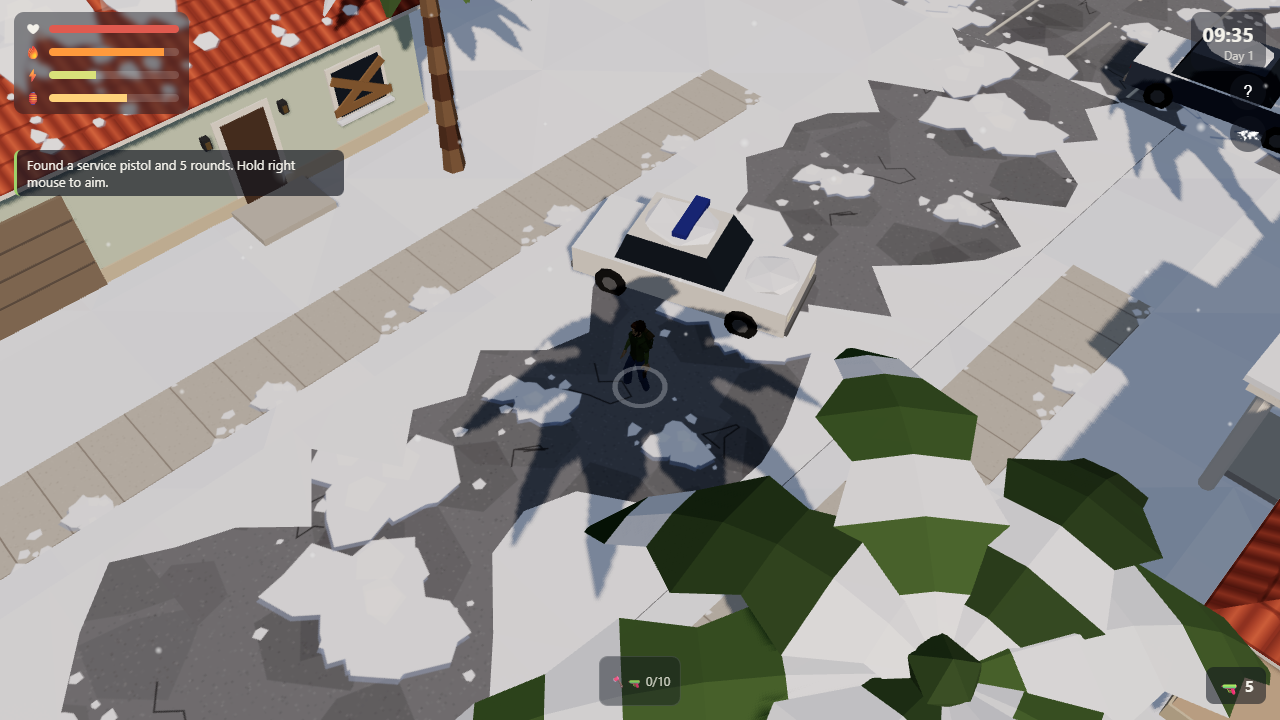
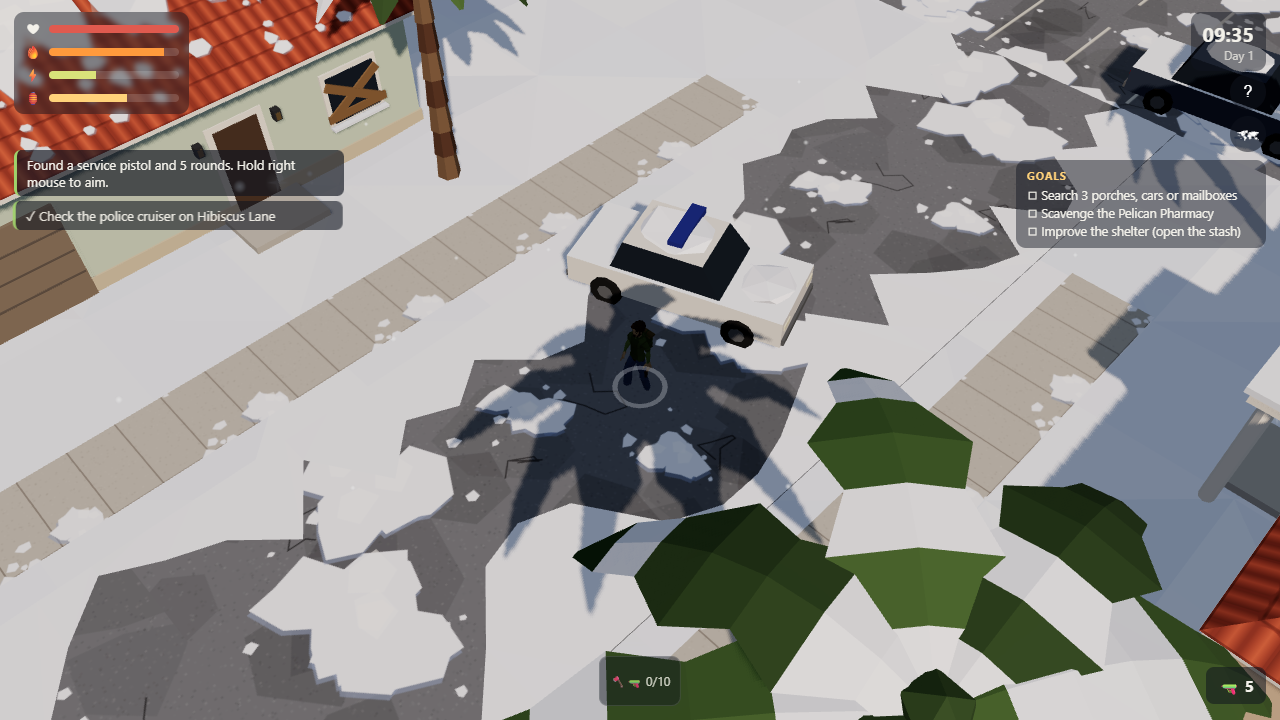
Playtest report, current-state notes, agent entry files

diff --git a/docs/PLAYTEST.md b/docs/PLAYTEST.md
@@ -1,0 +1,68 @@
+# Playtest report
+
+- **Last full run:** 2026-09-30, against a fresh clone of `github.com/Marcsarno/survival`, built with `npm install && npm run build` and served with `vite preview`.
+- **Harness:** `tools/playtest.mjs`, Playwright Chromium with the GPU (ANGLE/D3D11), 1280×720, Windows 11.
+- **Result:** 28 passed, 0 failed. The raw JSON is written to `playtest-output/results.json`; screenshots go to `docs/screenshots/`.
+
+All movement, gathering, searching, combat and UI actions went through real keyboard, mouse and pointer input. Two test shortcuts were used, and both are labelled in the results:
+1. Teleports that only place the player next to a wall for the collision test.
+2. `player.hurt(999)` to trigger the death-and-recovery path.
+
+Everything else was reached by walking.
+
+## Route and checks
+
+| # | Check | Observed |
+|---|---|---|
+| 1 | Fresh start (load + Start button) | Loaded in 2.8 s (local). Started in Pavilion Park, fire lit, no console errors. |
+| 2 | Footprints on snow | 9 prints in about 3 s of walking; visible in `02-footprints.png` |
+| 3 | Collision | Walking into the park's stucco wall stopped at x = −44.59 (wall at −44). Walking into a house front stopped at z = −12.06 (wall at −12.3 minus the player's radius). |
+| 4 | Park → woods trail → woodshed | Reached on foot through the west gate |
+| 5 | Gather wood | 0 → 4 split firewood (hold E) |
+| 6 | Take the axe | Axe flag set |
+| 7 | Woodshed → shelter | Walked back |
+| 8 | Store in the stash | Stash wood went 2 → 6 and the pack emptied (`04-stash-panel.png`) |
+| 9 | Feed the fire | Fuel 44.9 → 66.8 |
+| 10 | Shelter → Coral Palm Dr → Hibiscus Ln → police cruiser | Walked, passing 3 areas |
+| 11 | Search the cruiser | Got the pistol and 5 rounds |
+| 12 | Combat at the pharmacy lot | Aimed with right mouse and fired with a click. The frozen went down; the player kept full health in this run. |
+| 13 | Pharmacy aisles | Got 2 medkits, 2 food, 1 water |
+| 14 | Pharmacy → service road → camp → woods → shelter | A full loop on foot. On the way the walker shot or swung at chasing zombies 26 times, as a player would. |
+| 15 | Shelter → canal walk → beach | Walked |
+| 16 | Driftwood | Got 2 wood (with the axe) |
+| 17 | Beach → Coral Palm Dr → shelter | Walked back without getting trapped |
+| 18 | Areas visited | park, cpd, woods, hibiscus, pharmacy, service, camp, canal, beach (9) |
+| 19 | Day / night / lantern | Luminance around the player: day 203, night with the lantern off 86, night with it on 206 (`10-day.png`, `11-night-lantern.png`) |
+| 20 | Camera | The wheel raised the camera a level; X rotated it 45° |
+| 21 | Death and recovery | Woke at the shelter with 61 hp; the dropped pack appeared on the map |
+| 22 | Recover the pack | Walked back and got the dropped items |
+| 23 | Performance | 60 fps (vsync-capped) at the end of the desktop run |
+| 24 | Console | No errors |
+| 25 | Touch layout | Simulated 390×844 touch viewport: touch controls shown, joystick drag moved the player 3.9 m. This was **not** a physical phone. |
+
+## Visual comparison against the concept anchors
+
+The anchor list is in `DESIGN.md`. Screenshots are in `docs/screenshots/`.
+
+**Matching**
+- Stucco houses with snow-laden barrel-tile roofs, boarded windows and garages, paver driveways, mailboxes and palms, and asphalt showing through packed snow (anchor 05).
+- The faceted pines and woodshed with stacked log ends and a lantern (01).
+- The pink-stucco pharmacy with its canopy, boarded windows and parking lot (03).
+- The playground set: swings, slide tower, arch, rubber tiles, metal fence (06).
+- Bollards, dune fence and lifeguard stand (07).
+- Seawall, docks and patios (08).
+- The tile-roof pavilion with tarps, crates and lantern (11).
+- Warm lantern and fire light against blue snow at night, footprints behind the player, and normal human proportions.
+
+**Remaining differences**
+- The concept views are more densely dressed: potted plants, more hedges, bikes, arched entries.
+- Canal ice floes are simple polygons.
+- The frozen read as pale, weathered people rather than obviously decayed.
+- Roof snow is a repeating texture, not modelled drifts.
+- The default camera sits a little higher than most concept frames. C gives a low cinematic view, and the wheel or +/− adjust the height.
+
+## Performance notes
+
+- **Desktop** (this machine, Chromium with the GPU): 60 fps capped, about 600–800 draw calls and about 500k triangles including the shadow pass. Frame-time spikes of about 110 ms showed up during automated runs; they coincide with Playwright screenshot capture, but the cause isn't confirmed.
+- **Download:** 3.8 MB of meshopt-compressed models plus 218 KB of gzipped JavaScript.
+- **Phones:** not measured on a real device. Phones get `quality=low` automatically: 1.25× pixel ratio, 1024 px shadows, half the snow particles, no antialiasing.

diff --git a/docs/STATE.md b/docs/STATE.md
@@ -1,0 +1,49 @@
+# Current state
+
+Last updated 2026-09-30, after the overnight build.
+
+## What works (verified by the playtest; see PLAYTEST.md)
+
+- **World:** a playable browser prototype with 9 connected outdoor areas and two travel loops. It covers snowy South Florida suburbs, a playground, a canal with docks, a beach, a pharmacy lot, a service road and camp, and pine woods with a frozen pond.
+- **Resource loop:** gather or search, carry within pack limits, store in the stash, burn wood in the fire, and build 4 shelter upgrades.
+- **Survival:**
+  - Warmth, health, stamina and lantern oil.
+  - Death drops your pack, and you can recover it.
+  - Sleeping or resting passes time.
+- **Combat:** the frozen hunt by sight, noise and lantern light. Aiming is forgiving and ammo is scarce; axe and shove work at close range.
+- **Wildlife:** deer, foxes, rabbits, ducks, an owl, and wolves at night. A stray dog can be befriended.
+- **Atmosphere:**
+  - Day/night cycle, hand lantern, falling snow and passing squalls.
+  - Fading footprints from the player, the frozen and animals.
+  - Procedural sound.
+- **Controls:** keyboard and mouse, plus touch controls. The camera height is adjustable, it rotates in 45° steps, and there is a low cinematic mode (C).
+- **Guidance:** a goals checklist, a map that reveals areas as you visit them, and autosave.
+- **Pipeline:** repeatable Blender builds (`npm run assets`) produce compressed game models. Editable `.blend` files and license records are kept.
+
+## Known issues / limitations
+
+- **Phones untested on real hardware.** Only a simulated touch viewport was checked. Performance and controls still need a real iPhone and Android test.
+- **No pathfinding.** The frozen and animals move straight at their goal and slide along obstacles, so a fence can hold a zombie up.
+- **Occasional frame-time spikes** (about 110 ms) during automated runs; the cause isn't isolated.
+- **No interiors.** Houses and the pharmacy are searched at the door. The far canal bank can't be reached.
+- **No end or win state.** It's a sandbox loop.
+- **Lantern shadows are off by default** for performance. Enable them with `?shadows=high`.
+- **An unused model:** a brown hooded survivor recolor is kept in `assets/source/survivor-built.glb` but not placed in the world.
+
+## Untested behavior
+
+- Long sessions beyond about 2 in-game days (save and load across many days, fire behavior while sleeping repeatedly).
+- Browsers other than Chromium (Safari, Firefox).
+- Rotated-camera movement over long routes (the harness uses the default camera angle).
+
+## Next steps (suggested)
+
+1. Play it on a phone and tune `quality=low`: shadows, pixel ratio, draw distance.
+2. Deploy `dist/` to Vercel under the **marc731@gmail.com** account (the CLI is logged in) to get a link to text.
+3. Add simple grid pathfinding for the frozen.
+4. Vision items deliberately left out of this build: the daughter-rescue opening, family characters at the shelter, dialogue and choices.
+5. More set dressing to match the concept density: potted plants, arched entries, pools, bikes.
+
+## How to continue
+
+Read `README.md`, then `docs/DESIGN.md`. Then run `npm run dev`, followed by `npm run playtest`, after any change.

diff --git a/AGENTS.md b/AGENTS.md
@@ -1,0 +1,9 @@
+# Sarno Survive — agent notes (Codex / other agents; same as CLAUDE.md)
+
+Start with `README.md` (run, controls, layout), `docs/STATE.md` (what works, issues, next steps) and `docs/DESIGN.md` (decisions and tuning numbers). Keep those three up to date when you change things.
+
+- **Run:** `npm run dev`. **Verify:** `npm run playtest`. All checks should pass. Look at the screenshots, not only the JSON.
+- **Models:** edit `blender/build_assets.py`, then `npm run assets`, which runs Blender 5.2 in the background and then meshopt-compresses the output. Don't hand-edit files in `public/assets/models/`. Record any new downloaded model in `CREDITS.md`, with its license and your changes.
+- **Names the code depends on:** bones `WristL` / `WristR` / `UpperArmL`… (three.js strips the dots) and materials `CarPaint`, `LanternGlow`, `Fire`.
+- **Style:** faceted flat-shaded forms, snow on upward faces, normal human proportions, warm light against blue snow. The concept art is outside the repo (see `DESIGN.md`) and should not be committed.
+- **Git:** push to `github.com/Marcsarno/survival`. **Deploy:** Vercel account marc731@gmail.com (team "Marc Sarno"), never the hornerxpress account.

diff --git a/CLAUDE.md b/CLAUDE.md
@@ -1,0 +1,9 @@
+# Sarno Survive — agent notes
+
+Start with `README.md` (run, controls, layout), `docs/STATE.md` (what works, issues, next steps) and `docs/DESIGN.md` (decisions and tuning numbers). Keep those three up to date when you change things.
+
+- **Run:** `npm run dev`. **Verify:** `npm run playtest`. All checks should pass. Look at the screenshots, not only the JSON.
+- **Models:** edit `blender/build_assets.py`, then `npm run assets`, which runs Blender 5.2 in the background and then meshopt-compresses the output. Don't hand-edit files in `public/assets/models/`. Record any new downloaded model in `CREDITS.md`, with its license and your changes.
+- **Names the code depends on:** bones `WristL` / `WristR` / `UpperArmL`… (three.js strips the dots) and materials `CarPaint`, `LanternGlow`, `Fire`.
+- **Style:** faceted flat-shaded forms, snow on upward faces, normal human proportions, warm light against blue snow. The concept art is outside the repo (see `DESIGN.md`) and should not be committed.
+- **Git:** push to `github.com/Marcsarno/survival`. **Deploy:** Vercel account marc731@gmail.com (team "Marc Sarno"), never the hornerxpress account.
